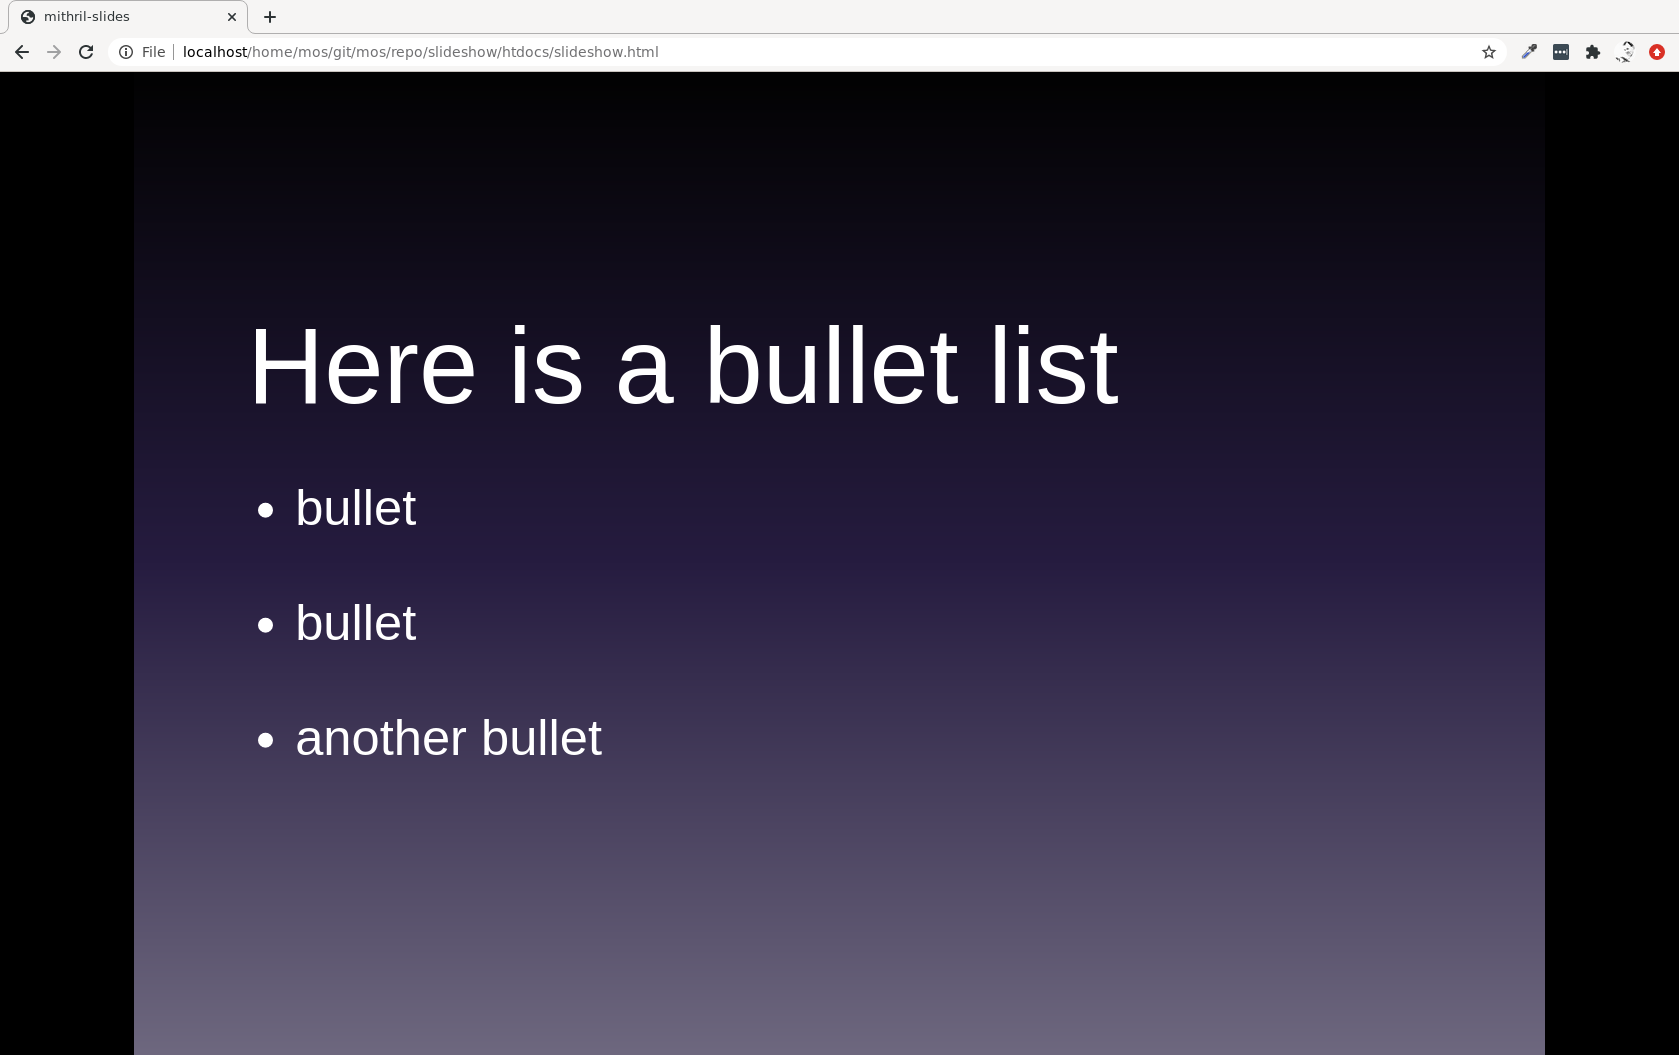
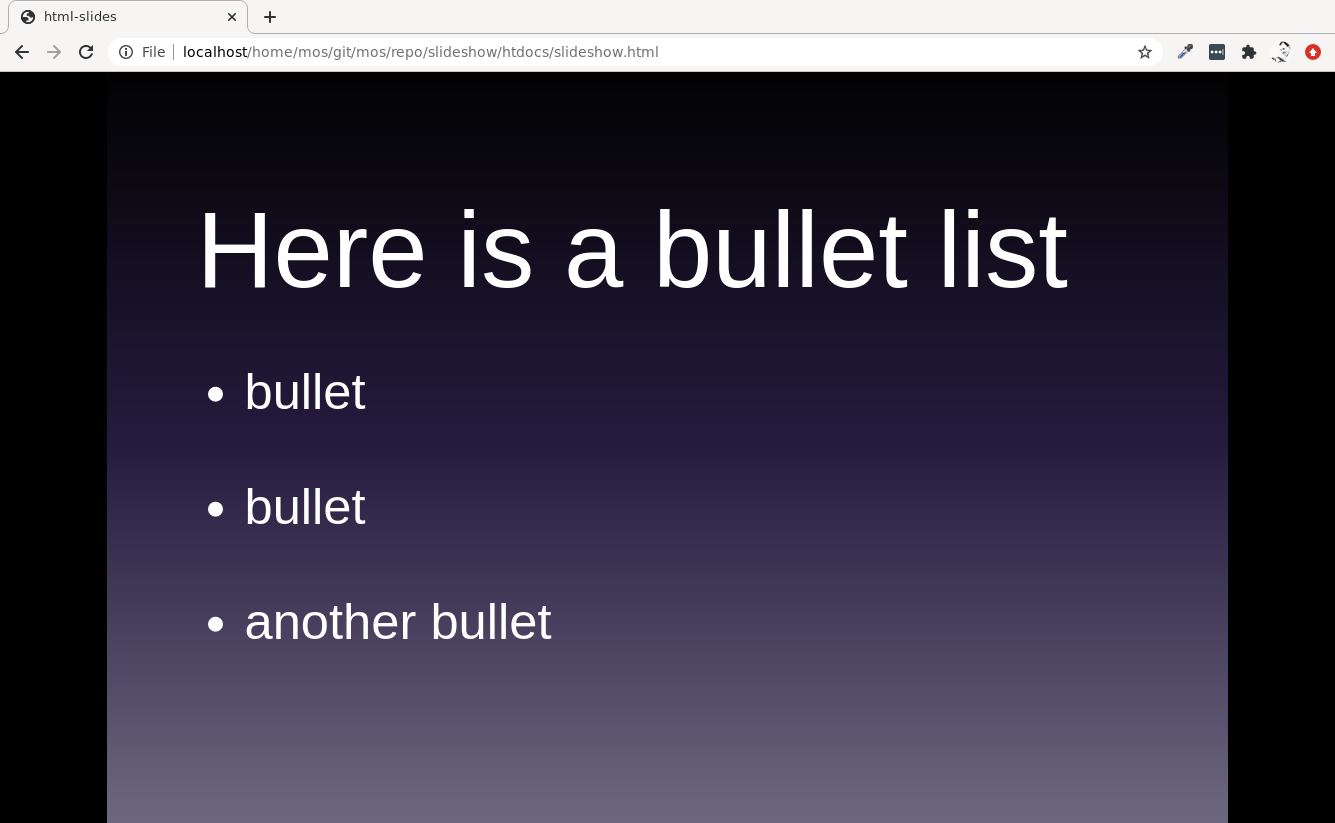
Change name of repo

diff --git a/htdocs/slideshow-markdown.html b/htdocs/slideshow-markdown.html
@@ -52,17 +52,17 @@ paragraf 2
 <script data-role="slide" data-markdown type="text/html">
 #Here is a table
 
-| What | Where |
-|------|-------|
+| What  | Where  |
+|-------|--------|
 | Apple | Sweden |
-| Pear  | Sweden |
+| Pear  | Norway |
 
 </script>
 
 
 
 <script data-role="slide" data-markdown type="text/html">
-#Here is code
+# Here is code
 
 ```
 <?php echo "Hello world"; ?>

diff --git a/htdocs/slideshow.html b/htdocs/slideshow.html
@@ -3,7 +3,7 @@
 <link href="css/slideshow-bundle.min.css" rel="stylesheet" />
 <script src="js/slideshow-bundle.min.js"></script>
 
-<title>mithril-slides</title>
+<title>html-slides</title>
 
 
 

diff --git a/README.md b/README.md
@@ -2,7 +2,7 @@ Mithril HTML Slideshow
 ============================
 
 [![npm version](https://badge.fury.io/js/html-slideshow.svg)](https://badge.fury.io/js/html-slideshow)
-[![Build Status](https://travis-ci.org/mosbth/mithril-slideshow.svg?branch=master)](https://travis-ci.org/mosbth/mithril-slideshow)
+[![Build Status](https://travis-ci.com/mosbth/html-slideshow.svg?branch=master)](https://travis-ci.com/mosbth/html-slideshow)
 
 This enables you to build slideshows using HTML and Markdown in a single HTML page.
 
